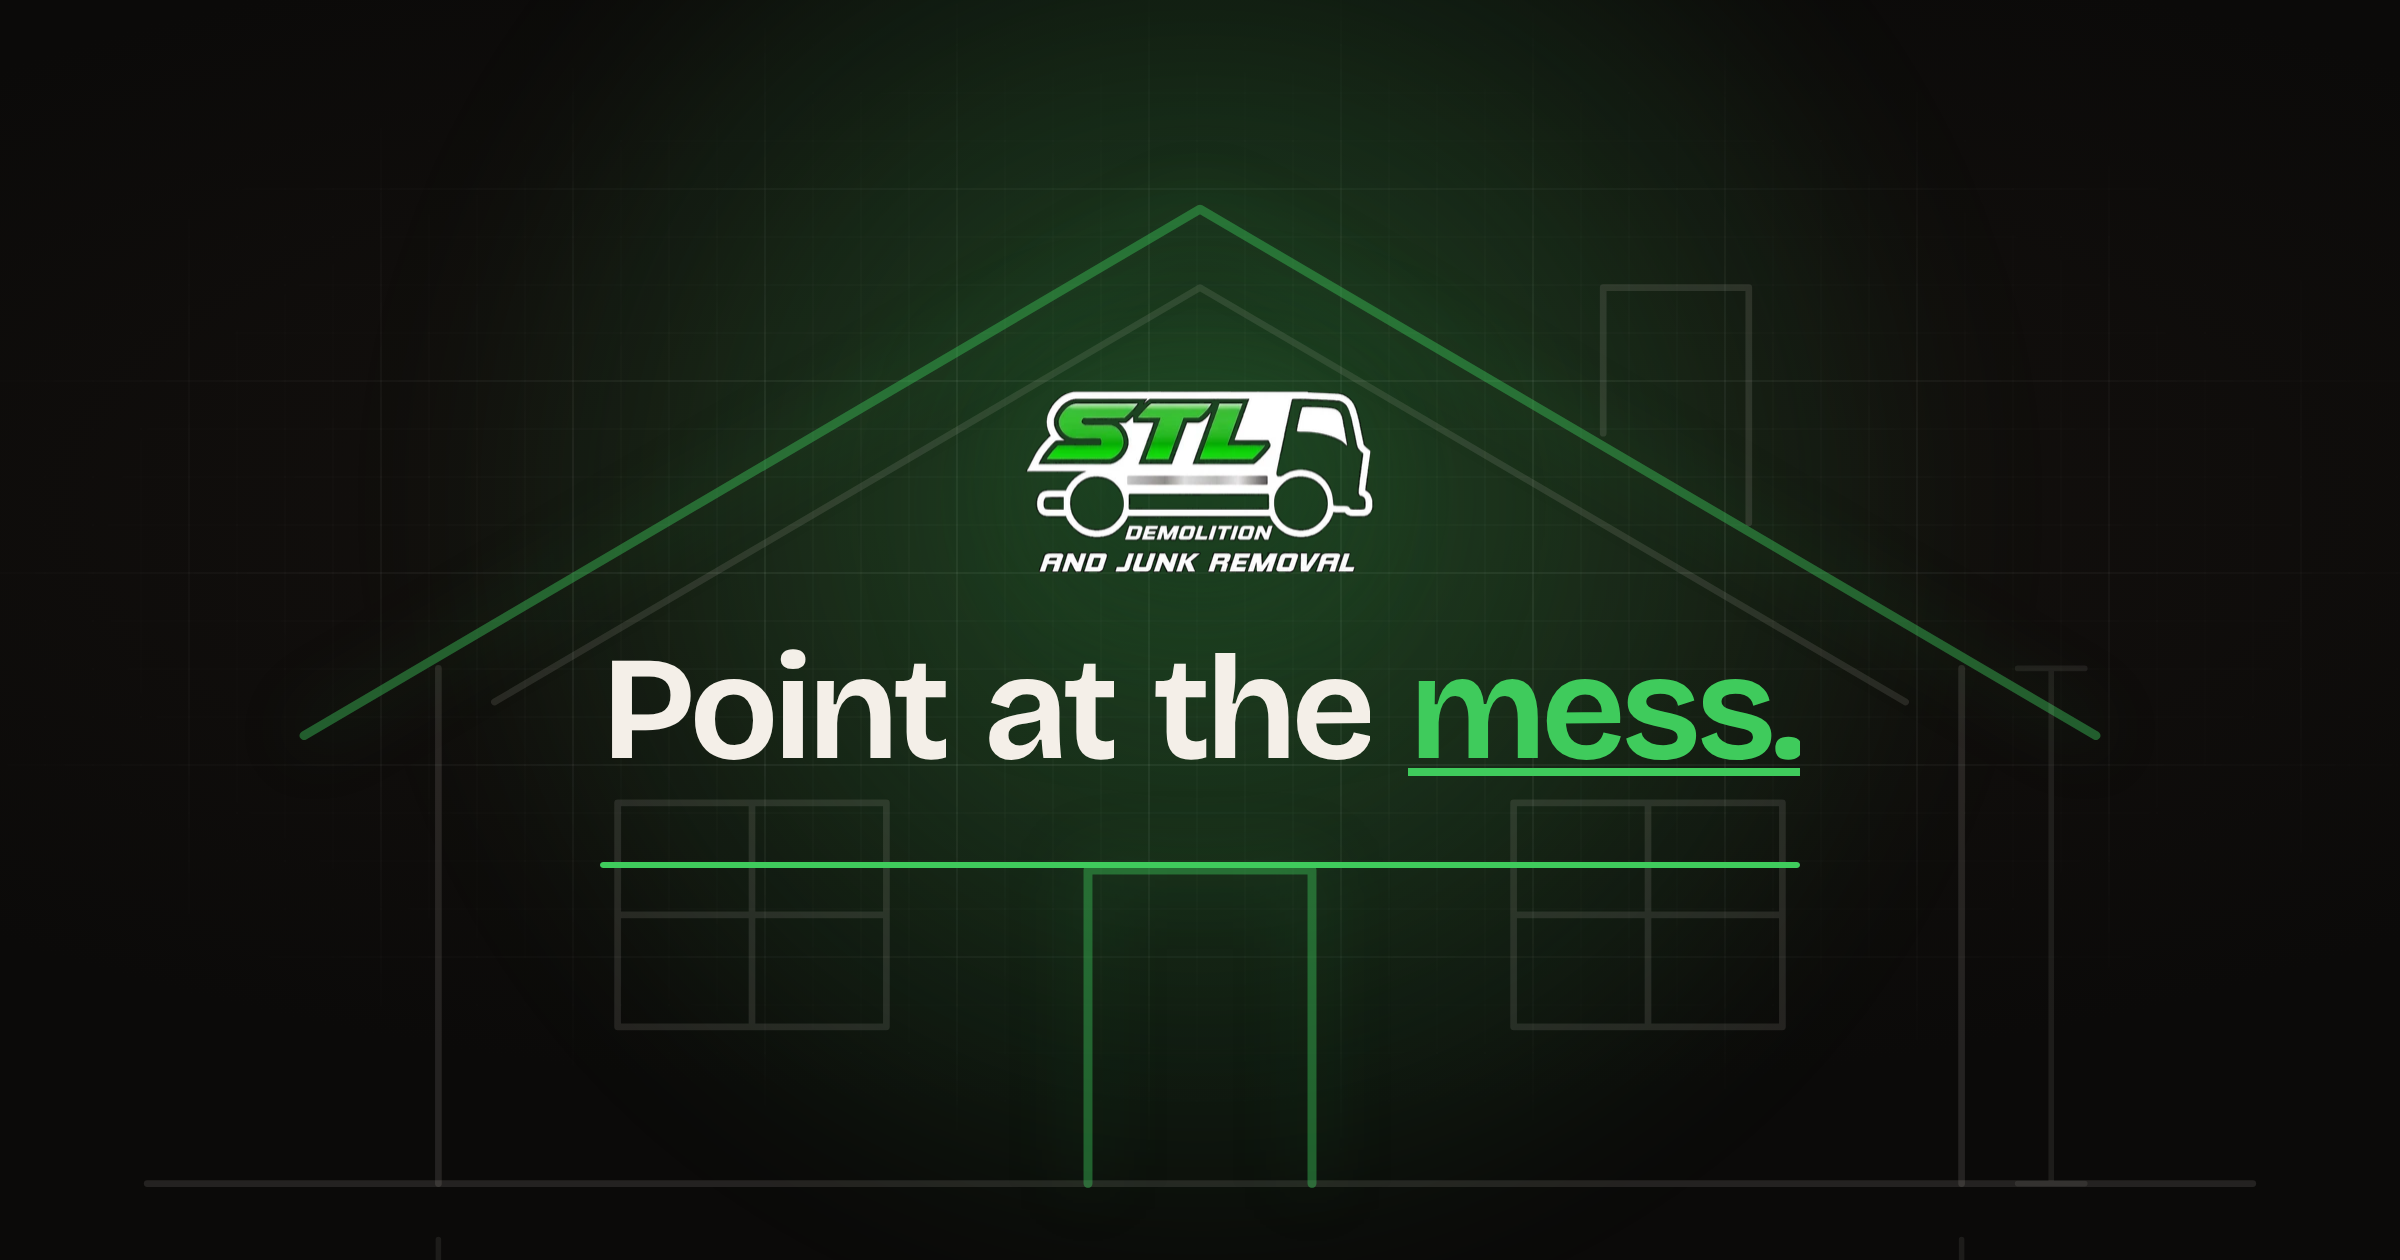
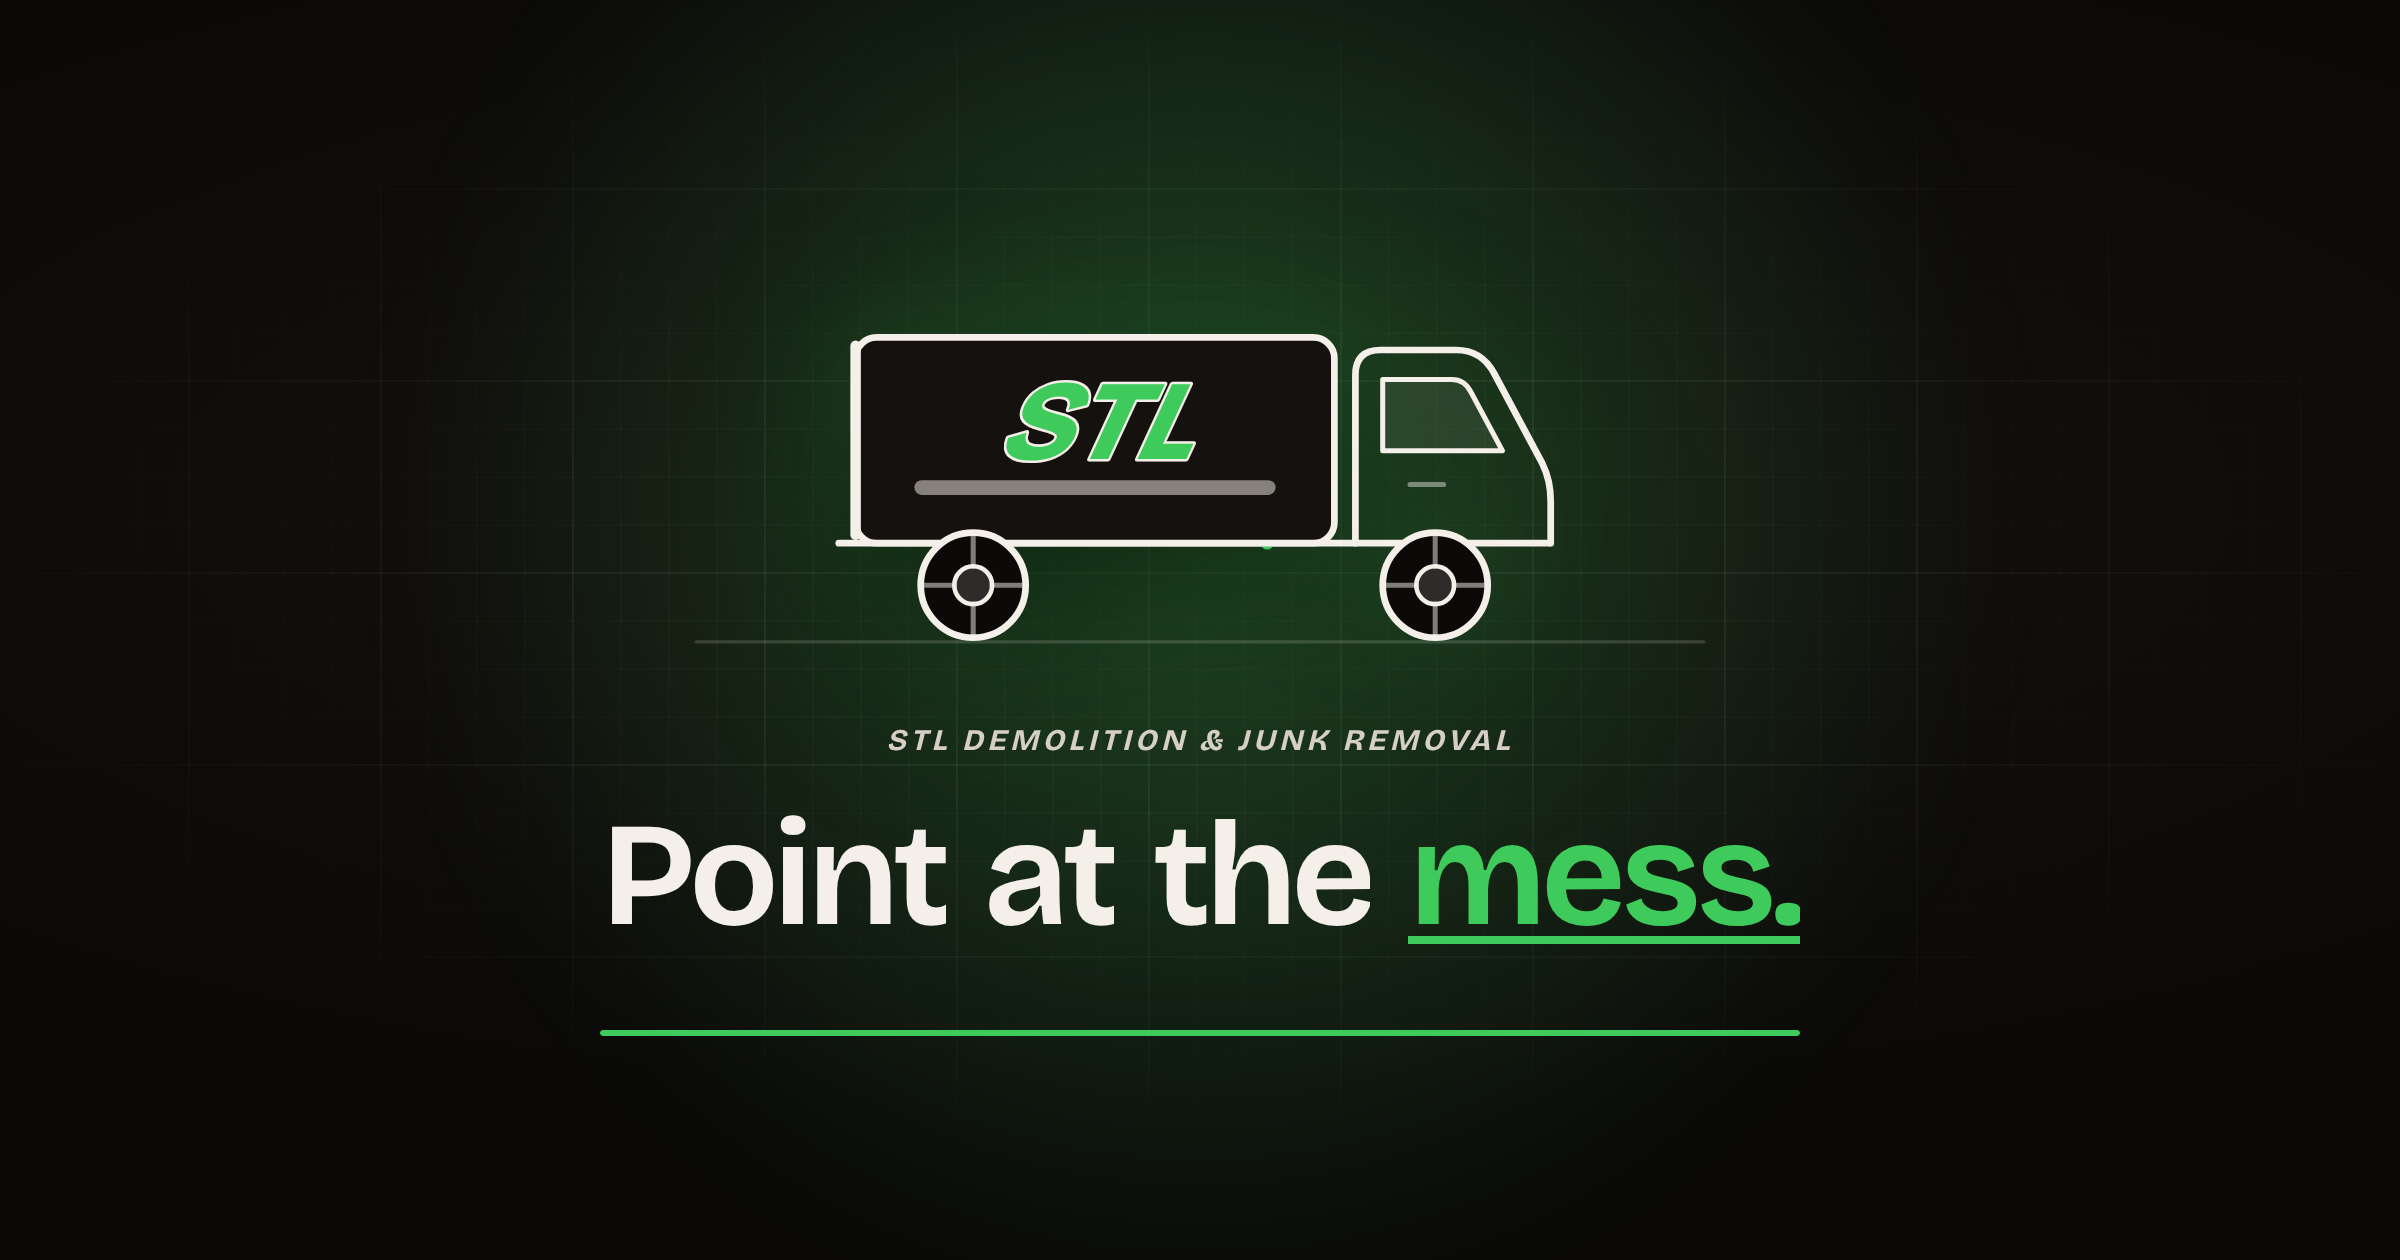
Animate a dump truck in the intro loader
The intro now shows a line-art dump truck in the logo's style (white
outline, green italic STL, cab facing right) in place of the logo image:
it drives in, junk drops into the bed, the bed tilts on its rear hinge
with the tailgate swinging open and the hydraulic ram extending, the
junk slides out with a dust puff, and the bed comes back down. All parts
run on the intro's build clock in CSS, so it plays before React loads;
reduced motion shows the parked truck. Stage labels follow the truck,
the company name sits under it, and the share card is regenerated.

Claude-Session: https://claude.ai/code/session_01PWemz4MvMhz3P9Lp8whden

diff --git a/src/styles/intro.css b/src/styles/intro.css
@@ -113,6 +113,82 @@ html.js:not(.intro-seen) { overflow: hidden; }
 .intro__skip:hover { background: rgb(255 255 255 / .12); color: #fff; }
 .intro__skip svg { width: 16px; height: 16px; fill: none; stroke: currentColor; stroke-width: 2; stroke-linecap: round; stroke-linejoin: round; }
 
+/* Dump truck (drawing: 'truck'). Every part runs on the same build clock (var(--build)), so the
+   keyframe percentages below are shares of the build: tilt from ~38%, peak ~55%, back down by ~80%. */
+.intro__brand {
+  margin: -12px 0 -6px; font-family: var(--font-display); font-style: italic; font-weight: 700;
+  font-size: clamp(12px, 1.4vw, 15px); letter-spacing: .14em; text-transform: uppercase; color: #d6cfc6;
+  animation: intro-logo-in .9s var(--ease-out-expo) .5s both;
+}
+.intro__truck {
+  width: clamp(250px, 64vw, 420px); height: auto; overflow: visible; margin-bottom: -6px;
+  fill: none; stroke: #f4efe8; stroke-width: 3; stroke-linecap: round; stroke-linejoin: round;
+  filter: drop-shadow(0 18px 40px rgb(0 0 0 / .6)) drop-shadow(0 0 26px rgb(var(--accent-rgb) / .22));
+}
+.intro__truck * { transform-box: view-box; }
+.tk-body { animation: tk-drive var(--build) cubic-bezier(.2, .8, .2, 1) both; }
+@keyframes tk-drive {
+  0% { transform: translateX(-120px); opacity: 0; }
+  6% { opacity: 1; }
+  20% { transform: translateX(6px); }
+  24%, 80% { transform: none; }
+  83% { transform: translateY(2px); }
+  87%, 100% { transform: none; }
+}
+.tk-ground { stroke: rgb(244 239 232 / .16); stroke-width: 1.5; }
+.tk-line { stroke-width: 3.2; }
+.tk-window { fill: rgb(244 239 232 / .08); stroke-width: 2.4; }
+.tk-dim { stroke: rgb(244 239 232 / .45); stroke-width: 2.4; }
+.tk-wheel circle { fill: var(--color-bg); stroke-width: 3.2; }
+.tk-wheel .tk-hub { fill: rgb(244 239 232 / .15); stroke-width: 2.2; }
+.tk-wheel path { stroke: rgb(244 239 232 / .5); stroke-width: 2.4; }
+.tk-wheel { transform-box: fill-box; transform-origin: center; animation: tk-roll var(--build) cubic-bezier(.2, .8, .2, 1) both; }
+@keyframes tk-roll { 0% { transform: rotate(-200deg); } 22%, 100% { transform: rotate(0); } }
+
+.tk-panel { fill: #14110f; stroke-width: 3.2; }
+.tk-chrome { fill: #9a958e; stroke: none; opacity: .85; }
+.tk-stl {
+  font-family: var(--font-display); font-style: italic; font-weight: 800; font-size: 54px; letter-spacing: -1px;
+  fill: var(--color-accent); stroke: #f4efe8; stroke-width: 2.4; paint-order: stroke; transform: skewX(-12deg); transform-origin: 150px 100px;
+}
+/* The bed pivots on its rear bottom corner (36,152). */
+.tk-bed { transform-origin: 36px 152px; animation: tk-tilt var(--build) cubic-bezier(.45, 0, .25, 1) both; }
+@keyframes tk-tilt {
+  0%, 38% { transform: rotate(0); }
+  55%, 61% { transform: rotate(-32deg); }
+  78% { transform: rotate(0.6deg); }
+  82%, 100% { transform: rotate(0); }
+}
+/* Tailgate hangs from its top hinge: it swings open as the bed rises. */
+.tk-gate { stroke-width: 5; transform-origin: 36px 58px; animation: tk-gate var(--build) cubic-bezier(.45, 0, .25, 1) both; }
+@keyframes tk-gate { 0%, 40% { transform: rotate(0); } 55%, 61% { transform: rotate(40deg); } 76%, 100% { transform: rotate(0); } }
+/* Hydraulic ram extends with the tilt. */
+.tk-ram { stroke: var(--color-accent-ink); stroke-width: 6; transform-origin: 232px 152px; animation: tk-ram var(--build) cubic-bezier(.45, 0, .25, 1) both; }
+@keyframes tk-ram { 0%, 38% { transform: rotate(0) scaleY(1); } 55%, 61% { transform: rotate(-30deg) scaleY(10.5); } 78%, 100% { transform: rotate(0) scaleY(1); } }
+
+/* Junk: drops in while the truck parks, slides out the back when the bed tilts. */
+.tk-junk .j { fill: #1d1915; stroke-width: 2.6; }
+.tk-junk .is-accent { stroke: var(--color-accent-ink); }
+.tk-junk { animation: tk-dump var(--build) cubic-bezier(.5, 0, .7, .4) both; }
+@keyframes tk-dump {
+  0%, 44% { transform: none; opacity: 1; }
+  60% { transform: translate(-170px, 30px) rotate(-12deg); opacity: 1; }
+  66%, 100% { transform: translate(-215px, 70px) rotate(-18deg); opacity: 0; }
+}
+.tk-junk .j { animation: tk-drop .45s cubic-bezier(.3, 0, .4, 1.4) both; }
+.tk-junk .j1 { animation-delay: .95s; }
+.tk-junk .j2 { animation-delay: 1.1s; }
+.tk-junk .j3 { animation-delay: 1.25s; }
+.tk-junk .j4 { animation-delay: 1.38s; }
+@keyframes tk-drop { from { translate: 0 -110px; opacity: 0; } 40% { opacity: 1; } }
+
+.tk-dust circle { fill: rgb(244 239 232 / .14); stroke: none; transform-box: fill-box; transform-origin: center; animation: tk-dust var(--build) ease-out both; }
+.tk-dust circle:nth-child(2) { animation-delay: .08s; }
+.tk-dust circle:nth-child(3) { animation-delay: .14s; }
+@keyframes tk-dust { 0%, 57% { transform: scale(0); opacity: 0; } 62% { opacity: 1; } 78%, 100% { transform: scale(2.4); opacity: 0; } }
+
 @media (prefers-reduced-motion: reduce) {
   .intro__glow, .intro__grid, .intro__logo { animation: none; }
+  .intro__truck *, .tk-junk .j { animation: none !important; }
+  .tk-dust { display: none; }
 }

diff --git a/src/components/react/Intro.tsx b/src/components/react/Intro.tsx
@@ -35,6 +35,47 @@ const PLAN: { d: string; from: number; to: number; accent?: boolean; dim?: boole
 ];
 
 const DEFAULT_WORDS = ['Building', 'your', 'next', 'project'];
+
+/**
+ * Dump truck in the logo's style (white outline, green italic STL, cab facing right). The whole sequence runs
+ * on CSS keyframes over the build time (intro.css): drive in, junk drops into the bed, the bed tilts on its rear
+ * hinge with the tailgate swinging open, the junk slides out, and the bed comes back down.
+ */
+function DumpTruck() {
+  return (
+    <svg className="intro__truck" viewBox="0 0 400 230" aria-hidden="true">
+      <g className="tk-dust">
+        <circle cx="14" cy="190" r="14" /><circle cx="36" cy="196" r="10" /><circle cx="-6" cy="196" r="9" />
+      </g>
+      <g className="tk-body">
+        <path className="tk-ground" d="M-40 199 H440" />
+        {/* chassis and cab */}
+        <path className="tk-line" d="M28 152 H366" />
+        <path className="tk-line" d="M274 152 V72 Q274 60 286 60 H322 Q334 60 340 71 L363 114 Q367 122 367 132 V152" />
+        <path className="tk-window" d="M287 74 H320 Q326 74 329 80 L344 108 H287 Z" />
+        <path className="tk-dim" d="M300 124 H316" />
+        {/* hydraulic ram: grows as the bed tilts */}
+        <path className="tk-ram" d="M232 152 V142" />
+        {/* dump bed, hinged at its rear bottom corner */}
+        <g className="tk-bed">
+          <g className="tk-junk">
+            <rect className="j j1" x="58" y="28" width="34" height="36" rx="3" />
+            <path className="j j2" d="M100 64 V40 Q100 30 110 30 H156 Q166 30 166 40 V64 M100 46 H166" />
+            <rect className="j j3 is-accent" x="174" y="38" width="28" height="26" rx="3" />
+            <path className="j j4" d="M210 64 L224 26 L232 29 L219 64" />
+          </g>
+          <rect className="tk-panel" x="36" y="54" width="228" height="98" rx="10" />
+          <rect className="tk-chrome" x="64" y="122" width="172" height="7" rx="3.5" />
+          <text className="tk-stl" x="150" y="112" textAnchor="middle">STL</text>
+          <path className="tk-gate" d="M36 58 V148" />
+        </g>
+        {/* wheels */}
+        <g className="tk-wheel"><circle cx="92" cy="172" r="25" /><circle className="tk-hub" cx="92" cy="172" r="9" /><path d="M92 147 V163 M92 181 V197 M67 172 H83 M101 172 H117" /></g>
+        <g className="tk-wheel"><circle cx="312" cy="172" r="25" /><circle className="tk-hub" cx="312" cy="172" r="9" /><path d="M312 147 V163 M312 181 V197 M287 172 H303 M321 172 H337" /></g>
+      </g>
+    </svg>
+  );
+}
 const clamp = (v: number) => Math.min(1, Math.max(0, v));
 /** Read the bar's live scaleX so the percentage always matches what is drawn. */
 const barScale = (el: HTMLElement | null) => {
@@ -43,7 +84,7 @@ const barScale = (el: HTMLElement | null) => {
   return m ? clamp(Number(m[1])) : 0;
 };
 
-export default function Intro({ logo, words = DEFAULT_WORDS, stages = DEFAULT_STAGES, drawing = 'house' }: { logo: string; words?: string[]; stages?: [number, string][]; drawing?: 'house' | 'none' }) {
+export default function Intro({ logo, words = DEFAULT_WORDS, stages = DEFAULT_STAGES, drawing = 'house', brand }: { brand?: string; logo: string; words?: string[]; stages?: [number, string][]; drawing?: 'house' | 'truck' | 'none' }) {
   const [active, setActive] = useState(true);
   const [skipped, setSkipped] = useState(false);
   const [p, setP] = useState(0);
@@ -120,7 +161,8 @@ export default function Intro({ logo, words = DEFAULT_WORDS, stages = DEFAULT_ST
       </svg>}
 
       <div className="intro__center">
-        <img className="intro__logo" src={logo} alt="" width={180} height={196} decoding="async" />
+        {drawing === 'truck' ? <DumpTruck /> : <img className="intro__logo" src={logo} alt="" width={180} height={196} decoding="async" />}
+        {drawing === 'truck' && brand && <p className="intro__brand">{brand}</p>}
         <p className="intro__title">
           {words.map((w, i) => (
             <span key={w} className="intro__word">

diff --git a/src/data/content.ts b/src/data/content.ts
@@ -16,14 +16,16 @@ export const content = {
   /** Five-second intro loader (once per visit). The last word is accented. */
   intro: {
     enabled: true,
-    drawing: 'house' as 'house' | 'none',
+    /** 'truck' replaces the logo with the animated dump truck; 'house' draws a blueprint house behind the headline. */
+    drawing: 'truck' as 'house' | 'truck' | 'none',
     words: ['Point', 'at', 'the', 'mess.'],
+    // Timed to the truck: it pulls up, gets loaded, dumps (38–61%) and lowers the bed (61–80%).
     stages: [
       [0, 'Backing up the truck'],
-      [0.24, 'Carrying it out'],
-      [0.48, 'Loading the truck'],
-      [0.72, 'Sweeping up'],
-      [0.97, 'Hauled away'],
+      [0.22, 'Loading it up'],
+      [0.38, 'Dumping the load'],
+      [0.62, 'Lowering the bed'],
+      [0.85, 'Hauled away'],
     ] as [number, string][],
   },
 
